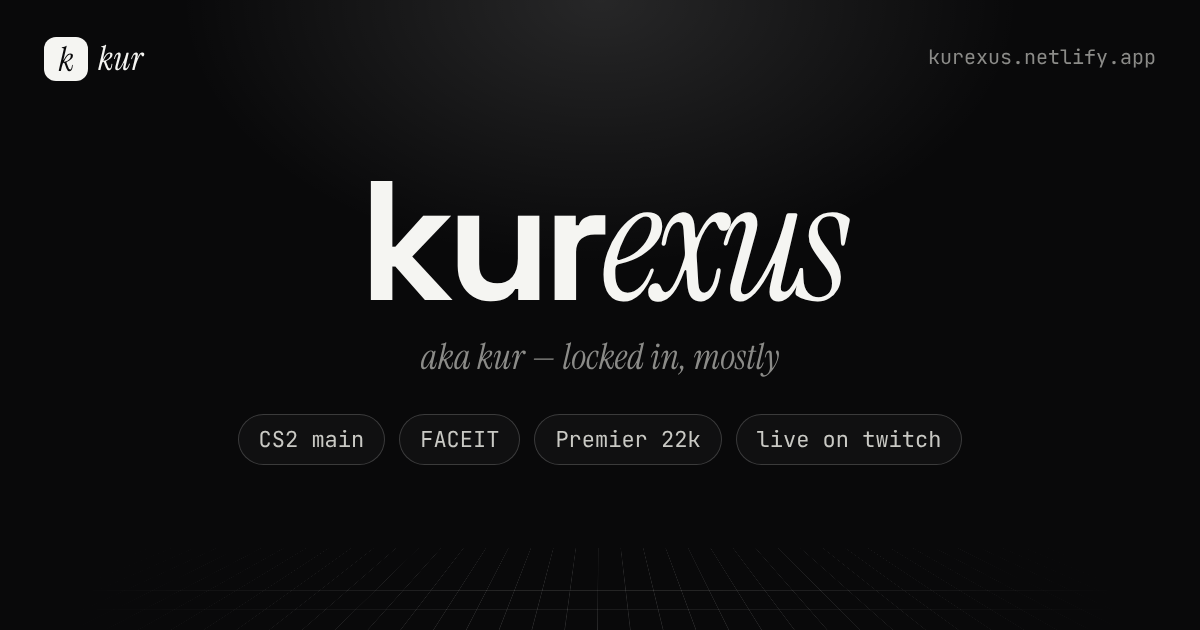
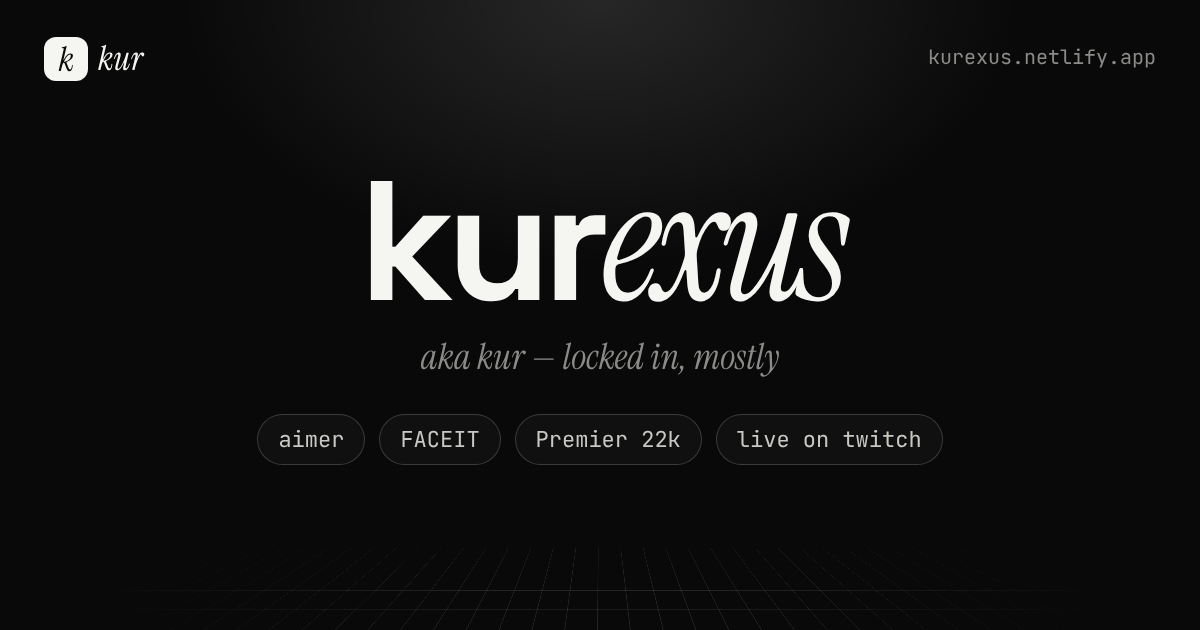
CS main -> aimer, slimmer bio ticker, preview image updated
Claude-Session: https://claude.ai/code/session_0126Zeerw2uT5HeG2o89viNf

Changed region(s): [[0.2158, 0.6635, 0.5858, 0.7238], [0.6167, 0.6635, 0.8017, 0.7238]]

diff --git a/index.html b/index.html
@@ -494,7 +494,7 @@ html.xh .xhair.on{opacity:1}
     <h2 data-i18n="r2.title">what I <em>grind</em></h2>
 
     <div class="card main-game">
-      <div class="mg-top"><h3>Counter-Strike 2</h3><span class="tag">MAIN</span></div>
+      <div class="mg-top"><h3>Counter-Strike 2</h3><span class="tag">AIMER</span></div>
       <div class="fc">
         <div>
           <div class="k">FACEIT</div>
@@ -883,10 +883,9 @@ $("langBtn").onclick = ()=>applyLang(LANG === "de" ? "en" : "de");
 function buildTicker(){
   const items = [
     "<b>emil</b>", L("<b>19</b> years old","<b>19</b> jahre"), L("from <b>germany</b>","aus <b>deutschland</b>"),
-    L("<b>cs2</b> main","<b>cs2</b> main"), L("streaming <b>almost daily</b>","streamt <b>fast täglich</b>"),
-    L("grinding <b>faceit</b>","grindet <b>faceit</b>"), L("learning <b>中文</b>","lernt <b>中文</b>"),
-    L("speaks <b>de · en</b>","spricht <b>de · en</b>"), L("<b>all-white</b> setup","<b>komplett weißes</b> setup"),
-    L("fav map <b>cache</b>","lieblingsmap <b>cache</b>"), L("next goal <b>faceit 10</b>","nächstes ziel <b>faceit 10</b>")
+    "<b>aimer</b>", L("streaming <b>almost daily</b>","streamt <b>fast täglich</b>"),
+    L("grinding <b>cs</b>","grindet <b>cs</b>"), L("learning <b>中文</b>","lernt <b>中文</b>"),
+    L("speaks <b>de · en</b>","spricht <b>de · en</b>")
   ].filter(Boolean).map(s=>`<span>${s} ✦</span>`).join("");
   $("track").innerHTML = items + items;
 }
